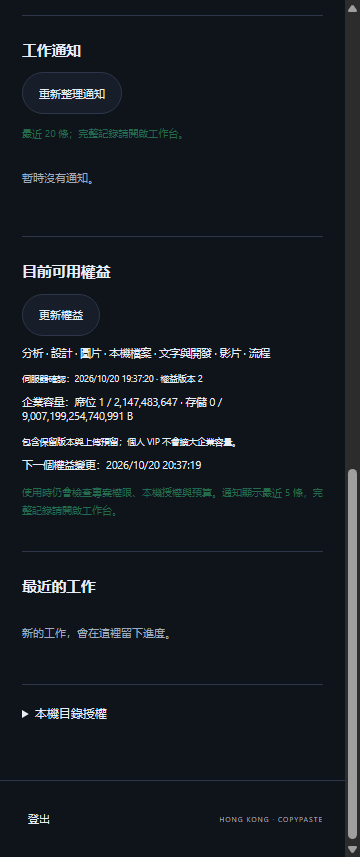
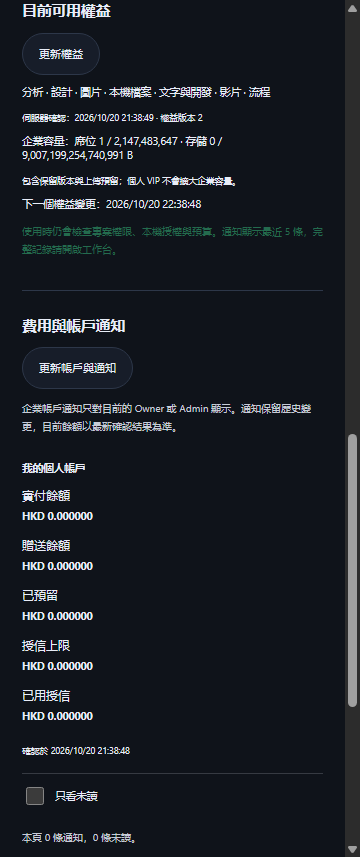
Document financial delivery and preserve current client evidence

diff --git a/README.en.md b/README.en.md
@@ -7,7 +7,25 @@ An independent repository for project/specialist tasks, explicitly selected file
 ![Sign-in](assets/screenshots/01-login.png)
 ![Authenticated side panel](assets/screenshots/02-workspace.png)
 
-Stage 49 rechecks verify frameless Desktop, the native Chrome right Side Panel, live rights/notifications and sign-out. Native runtime and existing preview installer bytes are unchanged. The platform and Admin provide the new atomic VIP and explicit-gift command; this client consumes effective server rights. Complete installation, signing, SSO and system acceptance remain separate.
+The historical stage 49 recheck verified frameless Desktop, the native Chrome right Side Panel, live rights/notifications and sign-out while retaining that stage's installer bytes. Stage 50 below rebuilds the current previews with financial views. Complete installation, signing, SSO and system acceptance remain separate.
+
+## Durable financial notifications and three-client accounts (stage 50)
+
+The toolbar continues to open the real native Chrome Side Panel, normally on the right and subject to Chrome’s placement preference. It adds exact personal balances, the latest five account notices, unread filtering and read-state controls; Web provides full history/work events. Workspace changes, failed reads, revocation and sign-out clear stale content, and workspace/request revisions reject late results. Actual dark-theme hint contrast measures 11.59:1. Only owned browsers were used and closed.
+
+Current platform regression: 410/410; actual three-client financial workflows: 8/8. AI/media and payment evidence are authorized local simulations; authentication, database, authorization, ledger and notification paths execute for real. This does not complete the original 102 acceptance cases, production banking or the full installation/system matrix.
+
+```mermaid
+flowchart LR
+  Source[Canonical financial fact] --> Tx[Same-transaction outbox]
+  Tx --> Worker[Current eligible recipient]
+  Worker --> Access[Recheck current authority]
+  Access --> Clients[Web / frameless Desktop / native Side Panel]
+```
+
+![Native Side Panel accounts](assets/screenshots/17-financial-inbox.png)
+
+![Unknown refund in the native panel](assets/screenshots/18-financial-unknown.png)
 
 ## Open in the browser side panel
 

diff --git a/README.md b/README.md
@@ -7,7 +7,25 @@
 ![扩展登录](assets/screenshots/01-login.png)
 ![真实登录后的侧栏](assets/screenshots/02-workspace.png)
 
-当前阶段 49 联调重新验证了无边框 Desktop、Chrome 原生右侧 Side Panel、实时权益/通知及退出；原生运行文件与现有预览安装器保持原字节。本次新增 VIP 加显式赠额的原子操作由平台和管理后台提供。本仓库只消费实际生效的服务器权益；完整安装/签名/SSO/系统验收仍单独跟踪。
+阶段 49 历史联调已验证无边框 Desktop、Chrome 原生右侧 Side Panel、实时权益/通知和退出，当时安装器保持原字节。下方阶段 50 随费用视图源码重建当前预览；完整安装/签名/SSO/系统验收仍单独跟踪。
+
+## 事务费用通知与三端账户（阶段 50）
+
+工具栏仍打开真实 Chrome 原生 Side Panel，默认右侧；左右位置由浏览器偏好决定。侧栏增加精确个人余额、最近五条账户通知、未读筛选和已读切换，完整历史/工作事件在 Web 查看。企业切换、失败读取、撤权和退出清空旧内容，工作区/请求序号拒绝迟到结果。深色提示文字已实际校验对比度 11.59:1；本轮仅使用自建浏览器并完整关闭。
+
+当前平台回归 410/410，真实三端费用流程 8/8。AI/媒体和付款证据使用获准本机模拟；身份、数据库、权限、账本及通知实际执行。原始 102 项综合验收、生产银行及完整安装/系统矩阵继续单独跟踪。
+
+```mermaid
+flowchart LR
+  Source[规范费用事实] --> Tx[同事务通知意图]
+  Tx --> Worker[当前合法接收人]
+  Worker --> Access[读取时复查权限]
+  Access --> Clients[Web / 无边框 Desktop / 原生侧栏]
+```
+
+![原生侧栏精确账户](assets/screenshots/17-financial-inbox.png)
+
+![原生侧栏未知退款](assets/screenshots/18-financial-unknown.png)
 
 ## 点击后在浏览器侧栏出现
 
